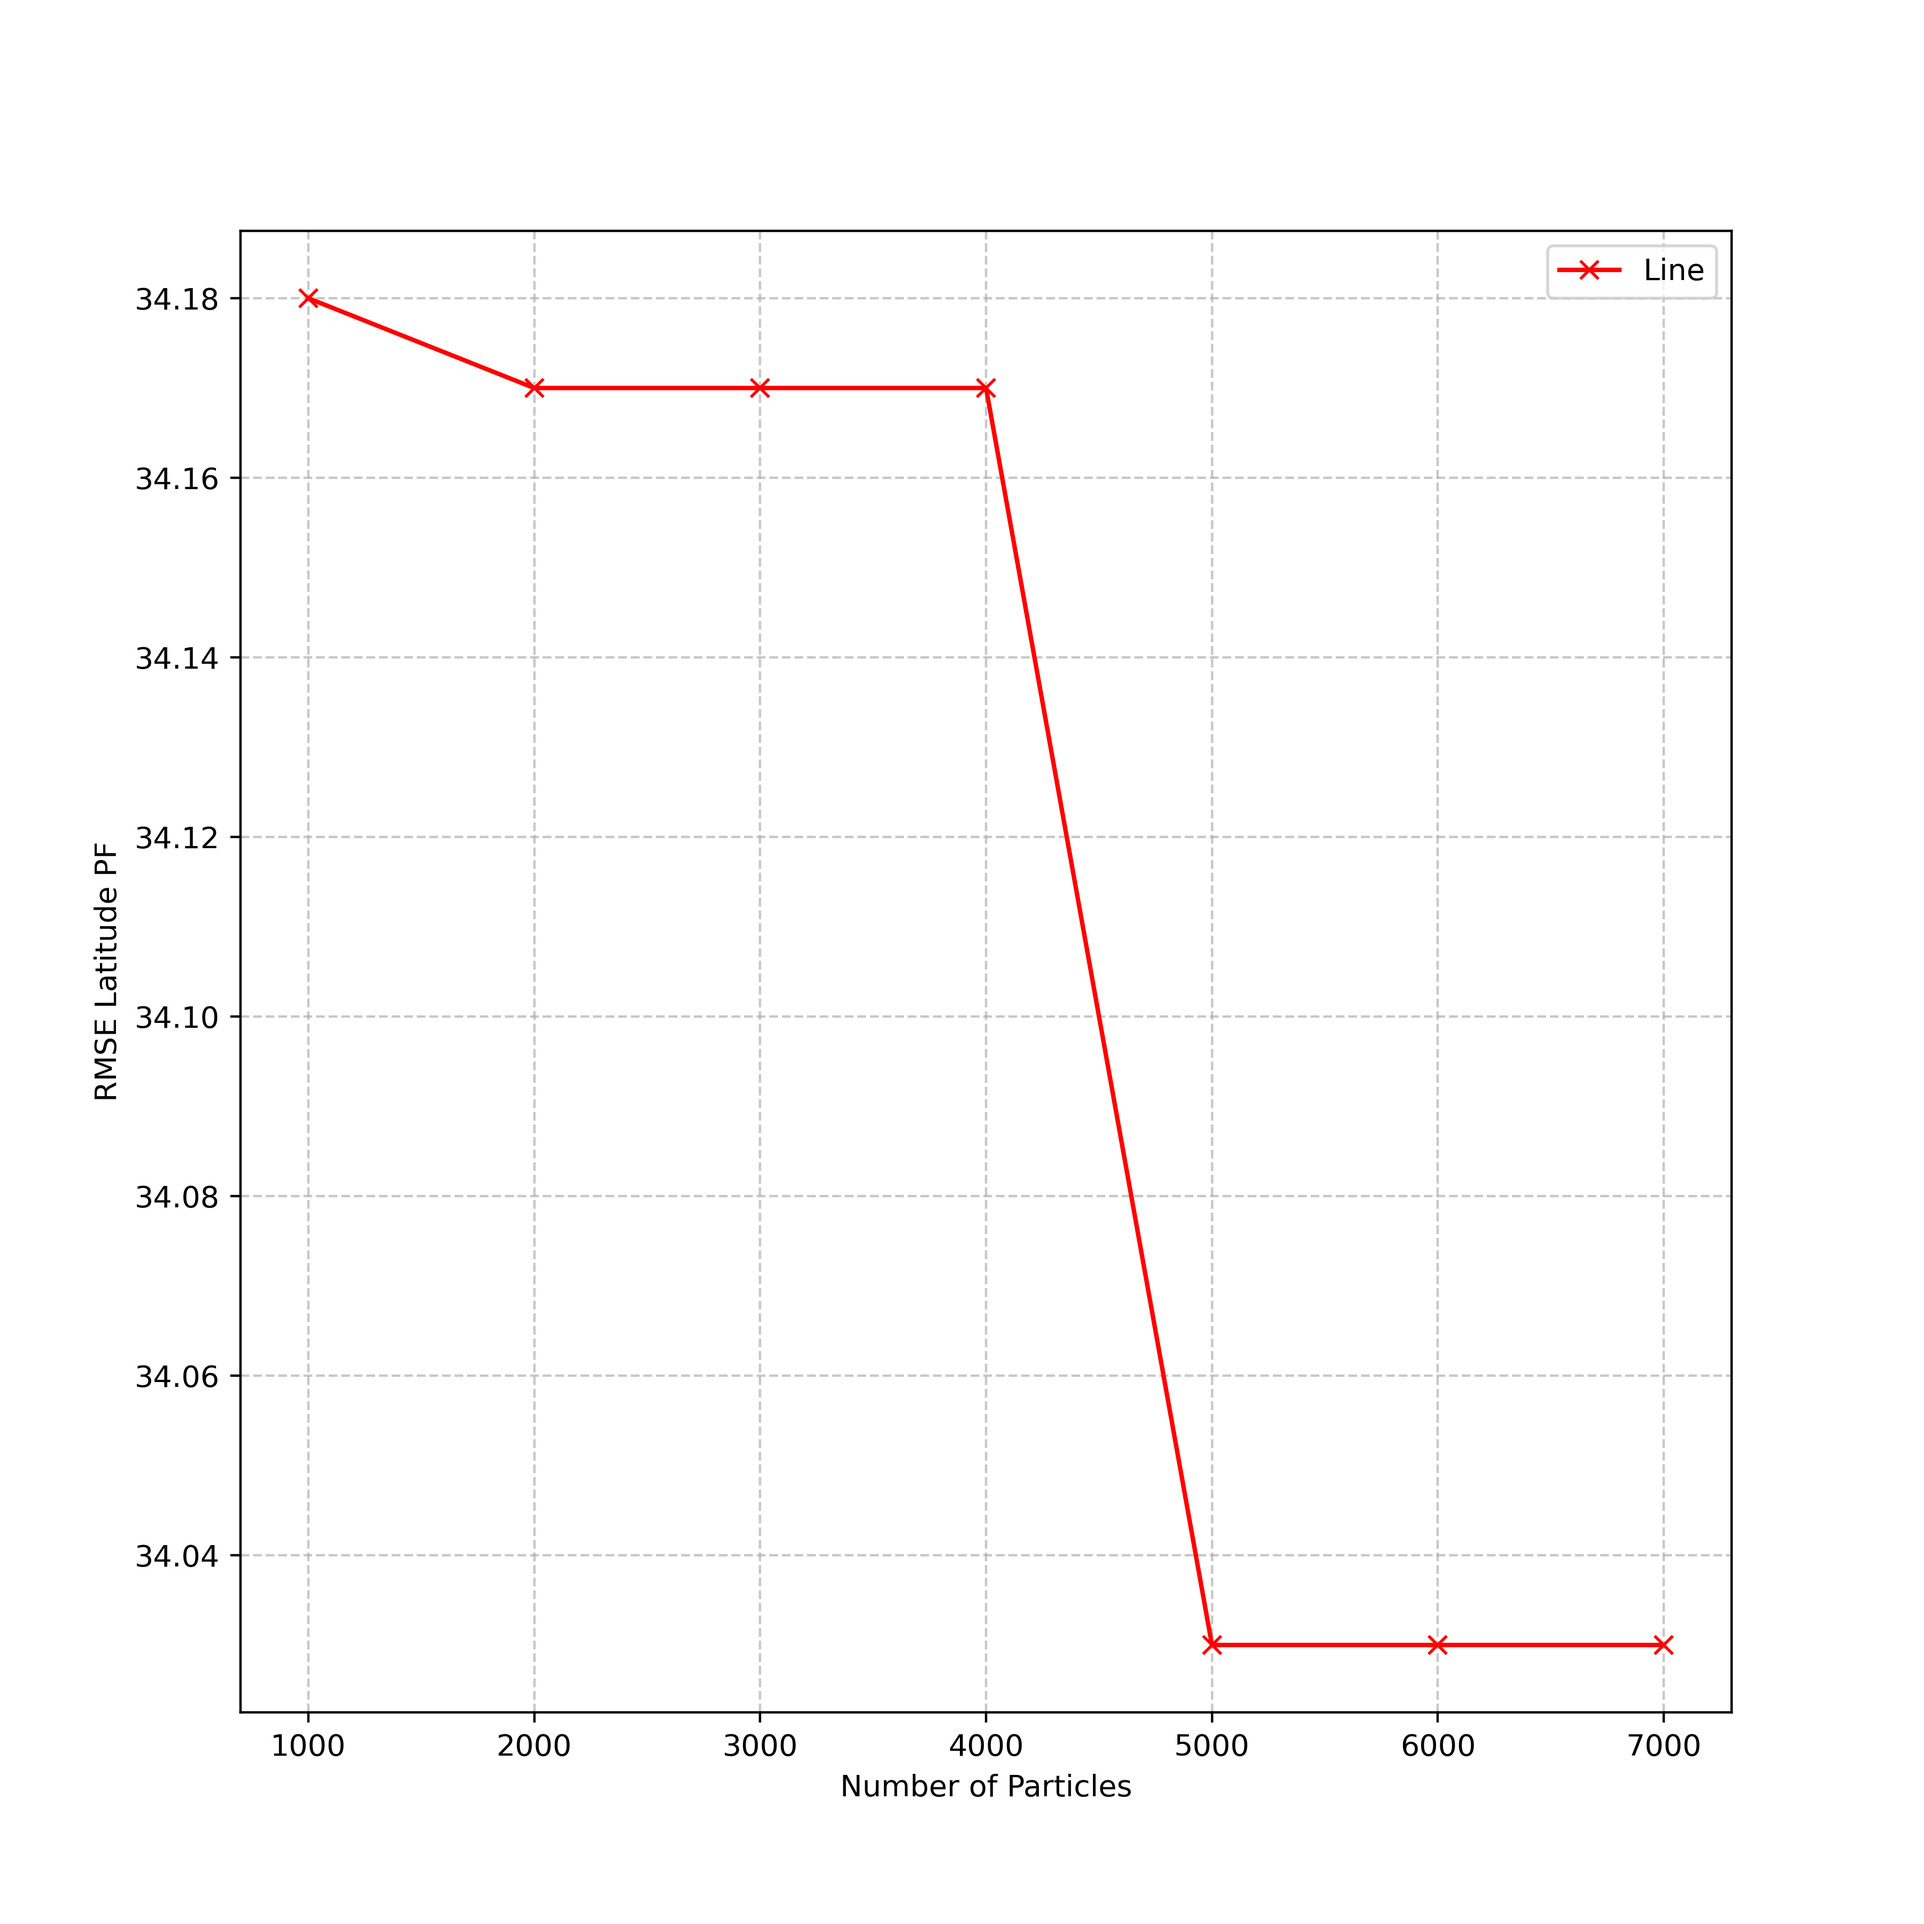
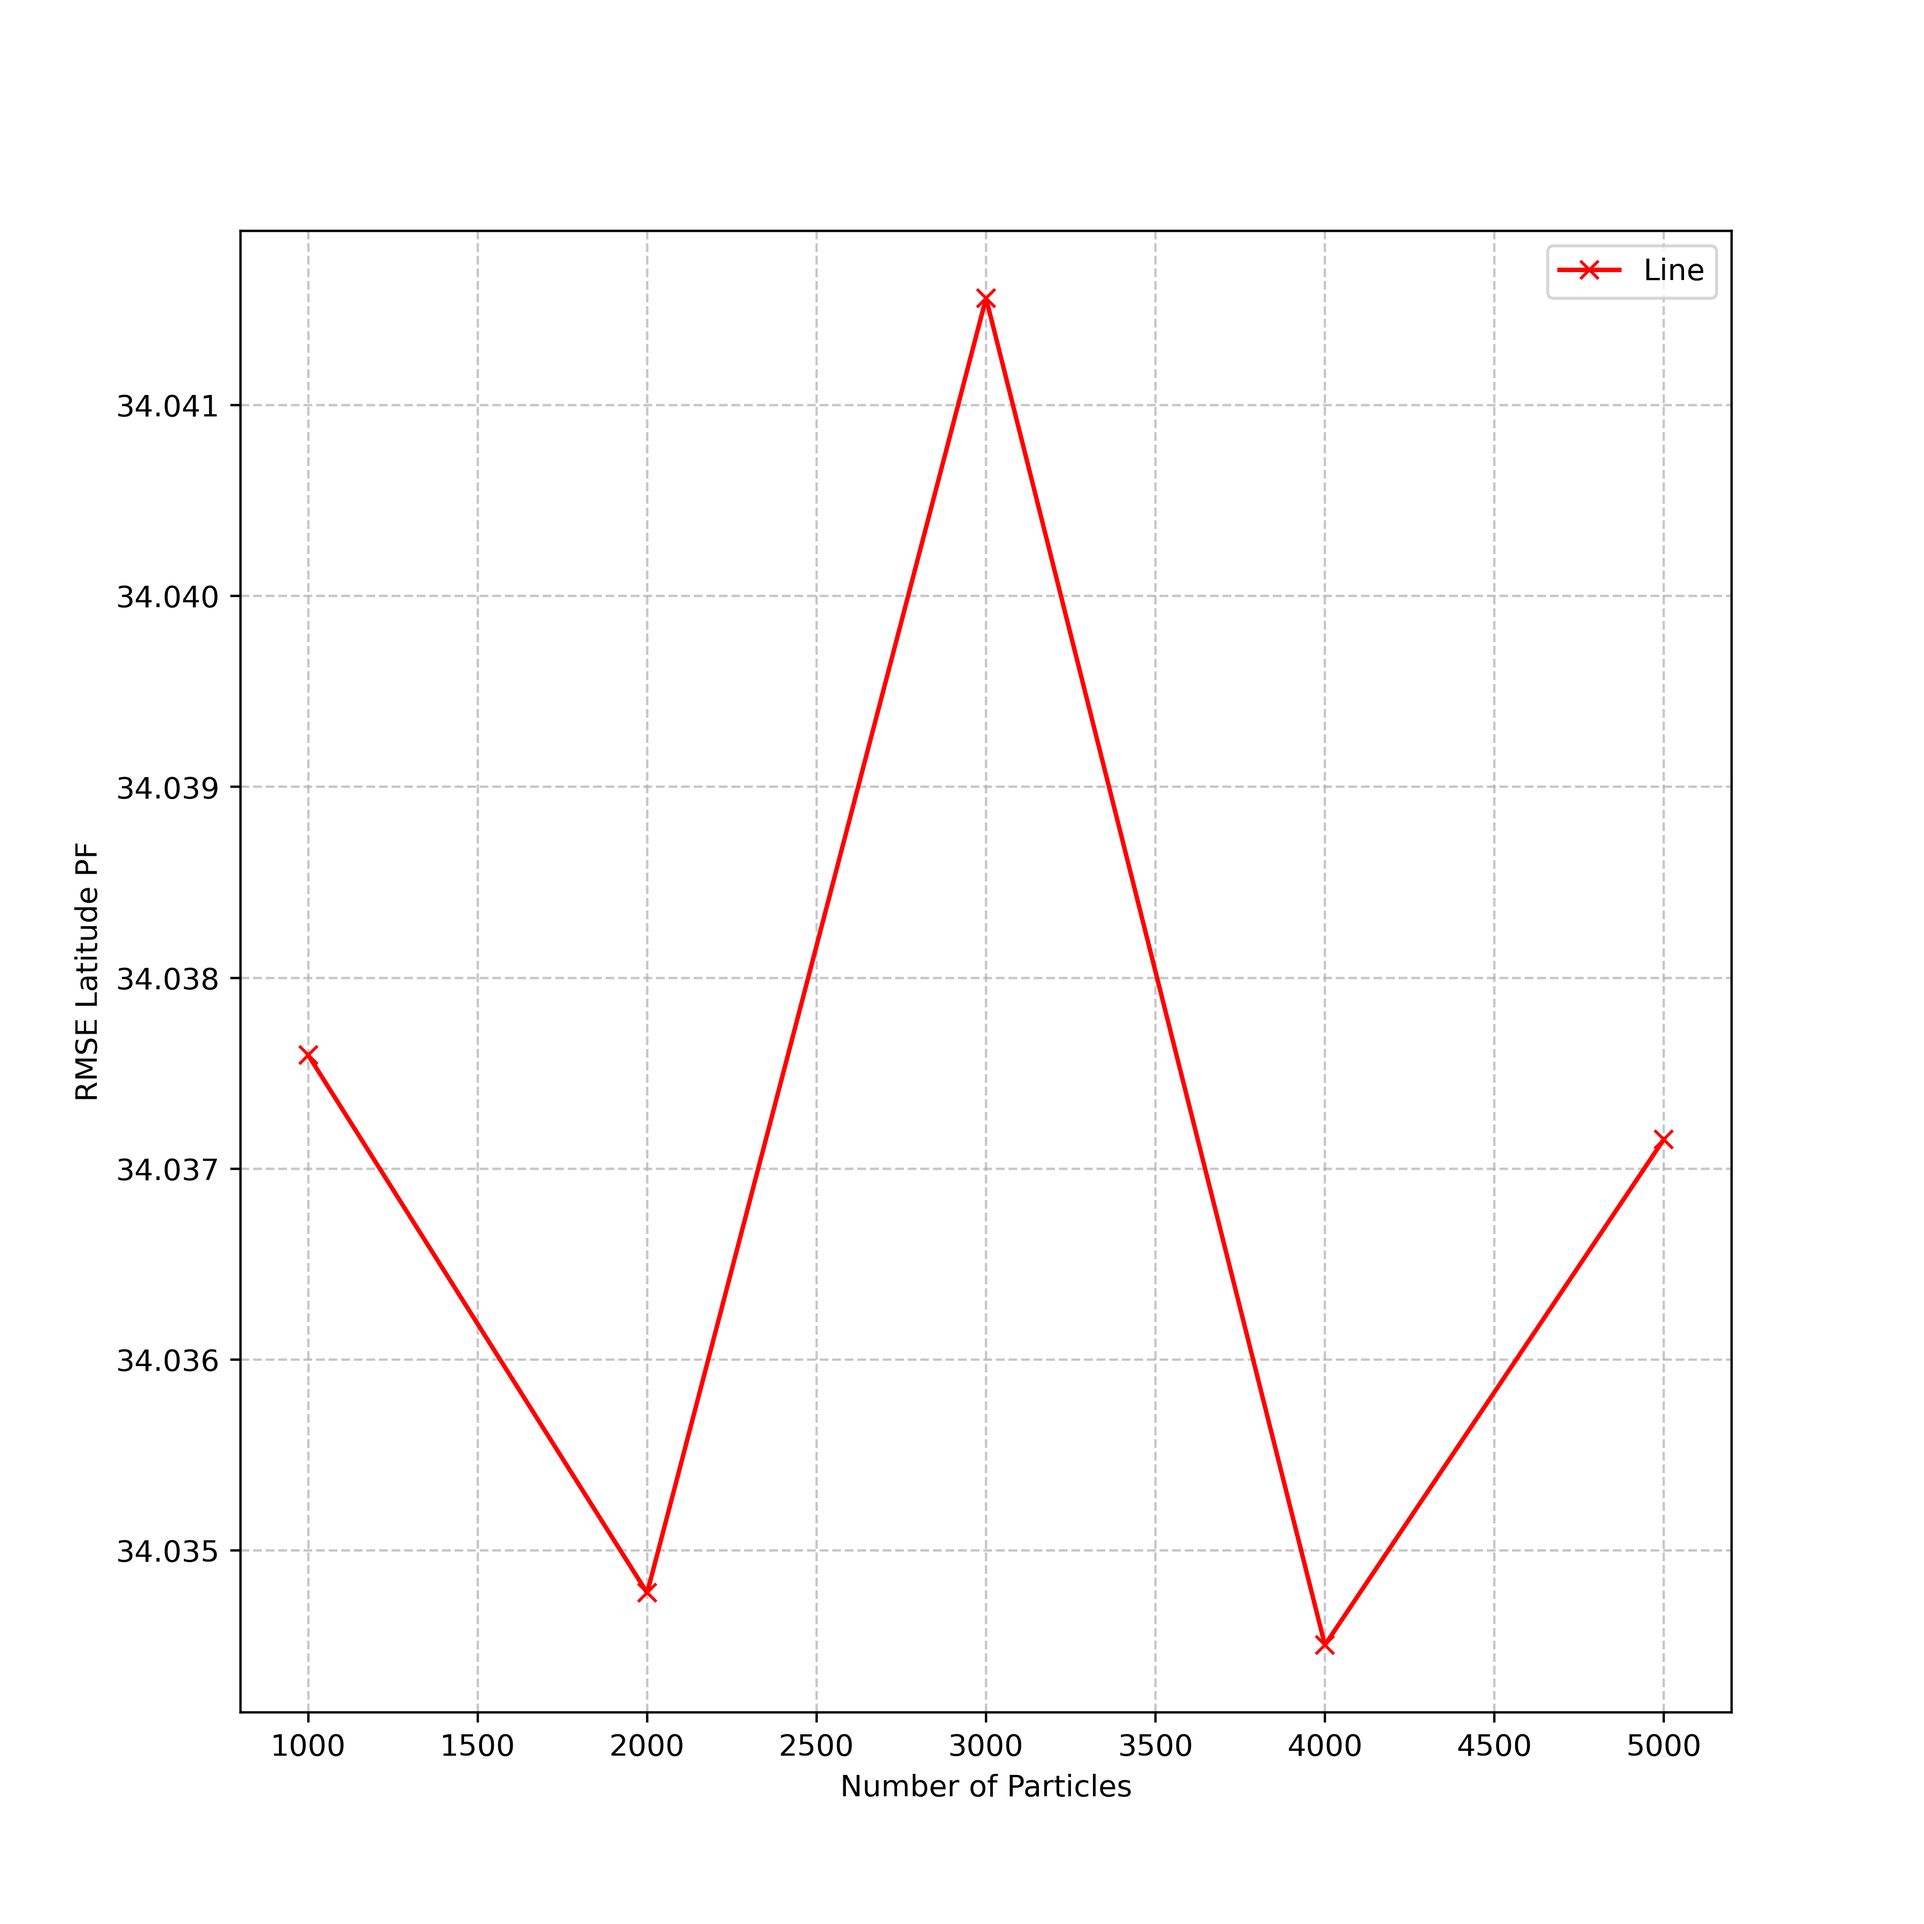
NVIDIA Jetson Xavier results have been updated an ploytted

diff --git a/plotting_results_offline.py b/plotting_results_offline.py
@@ -23,8 +23,9 @@ plt.show()
 #  FIGURE 13
 # PF RMSE PLOTS
 # Line Plot
-y= [34.18,34.17,34.17,34.17,34.03,34.03,34.03]
-x = [1000,2000,3000,4000,5000,6000,7000]
+#y= [34.18,34.17,34.17,34.17,34.03,34.03,34.03]
+y = [34.03759437,34.03477807,34.04155998,34.03450482,34.03715373]
+x = [1000,2000,3000,4000,5000]
 plt.figure(figsize=(900/100, 900/100), dpi=100)  # 900x900 pixels
 # plt.title('Figure 13')
 plt.plot(x, y, label='Line',color='red',marker='x')
@@ -43,8 +44,9 @@ plt.show()
 # pf RMSE PLOTS
 
 # Line Plot
-y= [43.00,42.99,42.99,42.95,42.95,42.95,42.95]
-x = [1000,2000,3000,4000,5000,6000,7000]
+#y= [43.00,42.99,42.99,42.95,42.95,42.95,42.95]
+y = [42.95346827,42.95346827,42.95810933,42.9568862,42.95550351]
+x = [1000,2000,3000,4000,5000]
 plt.figure(figsize=(900/100, 900/100), dpi=100)  # 900x900 pixels
 # plt.title('Figure 14')
 plt.plot(x, y, label='Line',color='red',marker='x')
@@ -64,16 +66,40 @@ plt.show()
 x = [1, 2, 3, 4,5,6,7,8,9,10]
 y1 =[0.000215,0.000142,0.000144,0.000132,0.000147,0.000155,0.000142,0.000132,0.000127,0.000142]
 y2 = [0.000054,0.0000543,0.000055,0.0000546,0.0000544,0.0000546,0.0000542,0.0000546,0.0000541,0.000054]
+y3 = [0.017972946166992188, 0.00048041343688964844, 0.0004963874816894531, 0.00046253204345703125, 0.00046634674072265625, 0.0004475116729736328, 0.0005228519439697266, 0.0004639625549316406, 0.0004470348358154297, 0.0004947185516357422]
 plt.figure(figsize=(900/100, 900/100), dpi=100)  # 900x900 pixels
 # plt.title('Figure 15')
 plt.title("CPU and GPU Time Comparison for PF prediction")
 plt.plot(x, y1,label="cpu time", color='blue',marker="s")
 plt.plot(x, y2,label="gpu time", color='red',marker="s")
+plt.plot(x, y3,label="gpu time NVIDIA Jetson Xavier", color='green',marker="s")
+
 plt.xlabel('Iteration Number')
 plt.ylabel('Execution Time per Data Point ESKF')
-plt.ylim([-0.00005, 0.0007])
 plt.legend()
 plt.grid(True, linestyle='--', alpha=0.7)  # Add grid lines (dashed, slightly transparent)
-plt.ylim([0, 0.0003])
+#plt.ylim([0, 0.0003])
+plt.savefig('Figures_for_the_paper/pf_time_cuda_GPU.png', dpi=400)
+plt.show()
+
+## Another Plot FIGURE 15
+
+# Bar Chart
+x = [1, 2, 3, 4,5,6,7,8,9]
+y1 =[0.000142,0.000144,0.000132,0.000147,0.000155,0.000142,0.000132,0.000127,0.000142]
+y2 = [0.0000543,0.000055,0.0000546,0.0000544,0.0000546,0.0000542,0.0000546,0.0000541,0.000054]
+y3 = [0.00048041343688964844, 0.0004963874816894531, 0.00046253204345703125, 0.00046634674072265625, 0.0004475116729736328, 0.0005228519439697266, 0.0004639625549316406, 0.0004470348358154297, 0.0004947185516357422]
+plt.figure(figsize=(900/100, 900/100), dpi=100)  # 900x900 pixels
+# plt.title('Figure 15')
+plt.title("CPU and GPU Time Comparison for PF prediction")
+plt.plot(x, y1,label="CPU time", color='blue',marker="s")
+plt.plot(x, y2,label="GPU time", color='red',marker="s")
+plt.plot(x, y3,label="NVIDIA Jetson Xavier", color='green',marker="s")
+
+plt.xlabel('Iteration Number')
+plt.ylabel('Execution Time per Data Point ESKF')
+plt.legend()
+plt.grid(True, linestyle='--', alpha=0.7)  # Add grid lines (dashed, slightly transparent)
+#plt.ylim([0, 0.0003])
 plt.savefig('Figures_for_the_paper/pf_time_cuda_GPU.png', dpi=400)
 plt.show()
